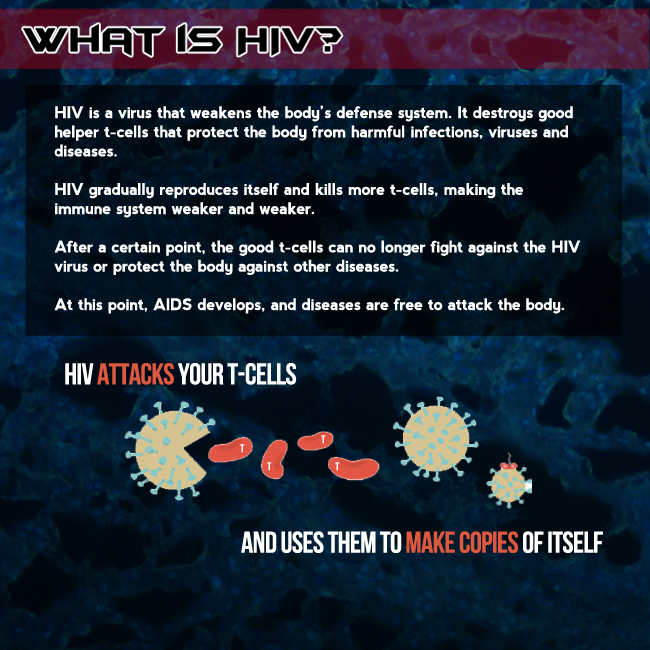
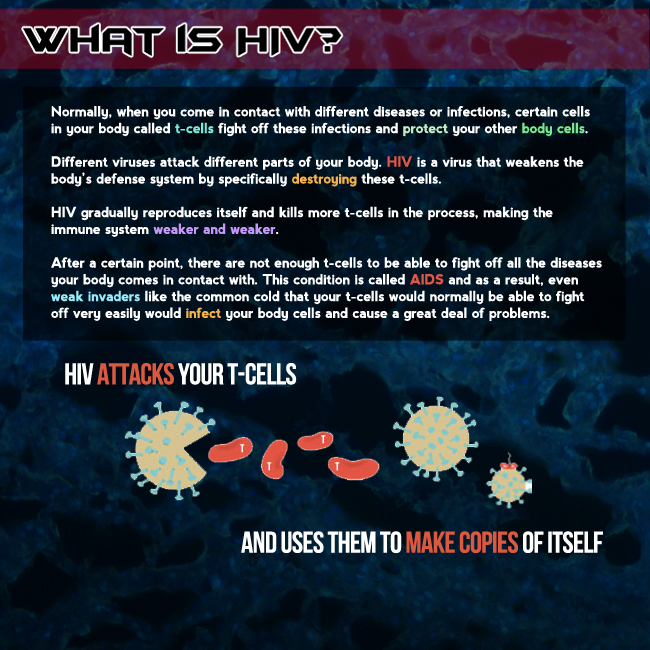
new bg image, removed unused code

Changed region(s): [[0.0308, 0.1538, 0.9231, 0.5231], [0.9538, 0.1231, 0.9846, 0.3077], [0.9538, 0.3385, 0.9846, 0.4]]

diff --git a/AP Project 4/src/object/Facts.java b/AP Project 4/src/object/Facts.java
@@ -24,45 +24,6 @@ public class Facts {
 	Statement statement;
 	Connection myConnection;
 	
-	//HIV Basics Facts
-	private String basic1 = "You cannot tell if someone has HIV by looking at him or her.";
-	private String basic2 = "The only way for someone to know his or her HIV status is to go for HIV testing.";
-	private String basic3 = "You can get tested for HIV at hospitals and clinics.";
-	private String basic4 = "HIV has no known cure, though there are medicines that help manage it.";
-	private String basic5 = "You can make choices to avoid getting or spreading HIV/AIDS.";
-	private String basic6 = "There are many myths about HIV/AIDS: We must learn to identify what is fact and what is nonsense.";
-
-	//MythBusters Facts
-	private String buster1 = "Knowing your HIV status can help you live a healthy life.";
-	private String buster2 = "Having more than one sexual partner can put you at greater risk to having HIV.";
-	private String buster3 = "According to statistics, the black population in the US is at a greater risk of contracting HIV.";
-	private String buster4 = "You are more likely to get HIV if you already have an STD.";
-	private String buster5 = "HIV is not the same thing as AIDS.";
-	private String buster6 = "HIV is present in the blood and sexual fluids.";
-	private String buster7 = "In the US, HIV is a problem for people of all races, genders, and sexual orientations.";
-
-	//Preventive Facts
-	private String prevention1 = "Abstain from sex";
-	private String prevention2 = "Be faithful to your current partner";
-	private String prevention3 = "Use a condom when having sex";
-	private String prevention4 = "Avoid blood to blood contact";
-
-	//Science Facts
-	private String science1 = "The immune system protects the body from harmful germs and diseases.";
-	private String science2 = "HIV weakens the immune system, allowing germs and diseases to attack the body.";
-	private String science3 = "Without treatment, HIV usually causes the disease AIDS in 2 to 10 years.";
-	private String science4 = "There is currently no cure for HIV but there are drugs, which can strengthen the immune system.";
-	private String science5 = "These drugs can help a person live 10 to 20 years longer.";
- 
-	//T-Cell Facts
-	private String cell1 = "Normal t-cell level is about 700 to 1000 cells in a pea sized drop of blood.";
-	private String cell2 = "HIV positive people are considered to have a normal t-cell count if the number is above 500 cells per drop.";
-	private String cell3 = "You should begin treatment when your t-cell count falls below 350 cells per drop";
-
-	// Staged Facts
-	private String stage1 = "When initially infected, a person may experience flu-like sickness.";
-	private String stage2 = "After the early symptoms, there is typically a long period without symptoms.";
-
 	private ArrayList<String> tips;
 	private HashMap<Integer, String> tCellFacts;
 	

diff --git a/AP Project 4/src/object/Board.java b/AP Project 4/src/object/Board.java
@@ -49,10 +49,10 @@ public class Board extends JPanel implements Runnable, MouseListener {
     private final long HIV_INTRO_TIME = 10000;
     
     private final int LEVEL_2_BENCHMARK = 950;
-    private final int LEVEL_3_BENCHMARK = 940;
-    private final int LEVEL_4_BENCHMARK = 930;
-    private final int LEVEL_5_BENCHMARK = 920;
-    private final int LEVEL_6_BENCHMARK = 910;
+    private final int LEVEL_3_BENCHMARK = 750;
+    private final int LEVEL_4_BENCHMARK = 600;
+    private final int LEVEL_5_BENCHMARK = 500;
+    private final int LEVEL_6_BENCHMARK = 400;
     
     //Send over side bar panel from
     private SidebarPanel sidebarPanel; 
@@ -397,22 +397,9 @@ public class Board extends JPanel implements Runnable, MouseListener {
 				virusImages[i-1] = ImageIO.read(getClass().getResource(imagePath));
 			}
 
-//			File fontFile = new File("/DS-DIGI.TTF");
-//			displayFont = Font.createFont(Font.TRUETYPE_FONT, fontFile).deriveFont(Font.PLAIN, 15f);
-//				
-//			GraphicsEnvironment ge = GraphicsEnvironment.getLocalGraphicsEnvironment();
-//			ge.registerFont(displayFont);
-//			InputStream inStream = getClass().getResourceAsStream("/DS-DIGI.TTF");
-//			Font displayFont = Font.createFont(Font.TRUETYPE_FONT, inStream);
-//
-//			displayFont = displayFont.deriveFont(12f);
-			//myLabel.setFont(siFont);
-
 		} catch (IOException e) {
 			System.out.println("Error loading images");
-		} //catch (FontFormatException e) {
-//			System.out.println("Error loading fonts");
-//		}
+		}
     }
 
 	/**
@@ -493,13 +480,9 @@ public class Board extends JPanel implements Runnable, MouseListener {
 	        for (int i = 0; i < CELL_COLUMNS; i++) {
 	        	Cell cell = cellList[i][j];
 	        	if (!cell.isInfected()) {
-		        	//g.setColor(Color.GREEN);
-		        	//g.fillRect((int) cell.getX(), (int) cell.getY(), (int) cell.getWidth(), (int) cell.getHeight());
 		        	g2.drawImage(cellImages[i][j], (int) cell.getX(), (int) cell.getY(), this);
 	        	}
 	        	if (cell.isInfected()) {
-		        	//g.setColor(Color.RED);
-		        	//g.fillRect((int) cell.getX(), (int) cell.getY(), (int) cell.getWidth(), (int) cell.getHeight());
 		        	g2.drawImage(infectedCellImages[i][j], (int) cell.getX(), (int) cell.getY(), this);
 
 	        	}

diff --git a/AP Project 4/src/object/Virus.java b/AP Project 4/src/object/Virus.java
@@ -33,9 +33,6 @@ public class Virus {
 	// Alive is true if the virus is still alive, and false if it has been destroyed by the user
 	private boolean alive;
 	
-	//Set virus count equal to 5
-	public int virusCount=5; 
-	
 	/**
 	 * Virus()
 	 * Constructor
